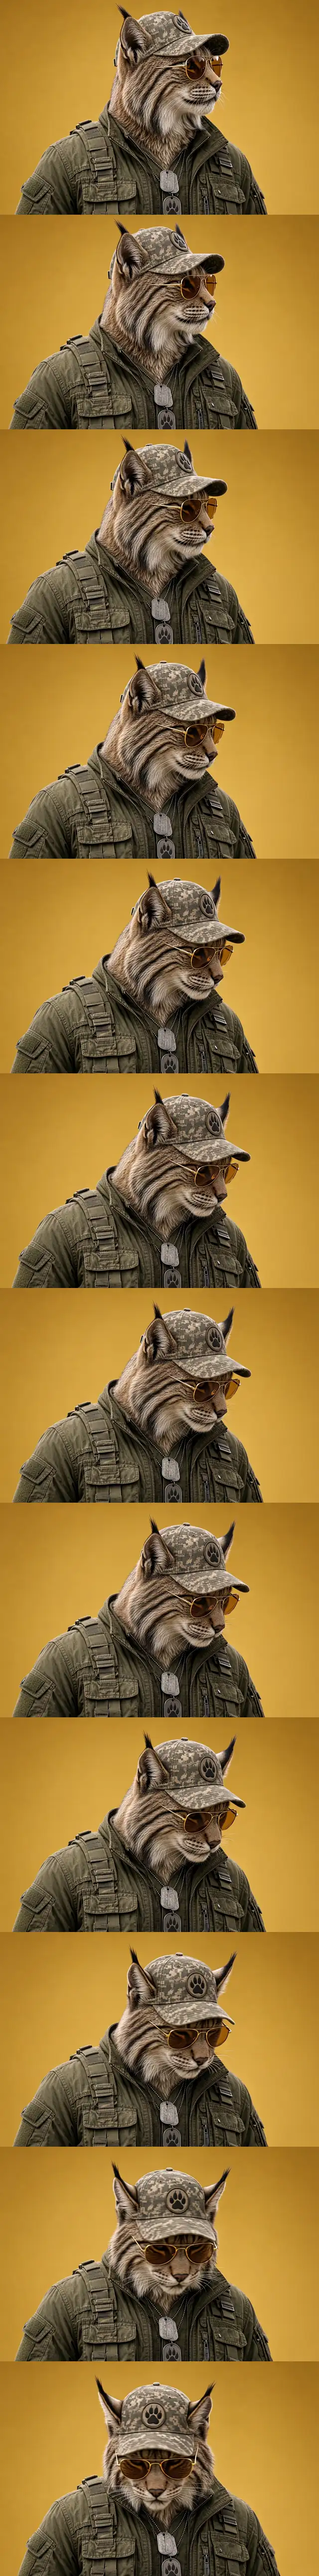
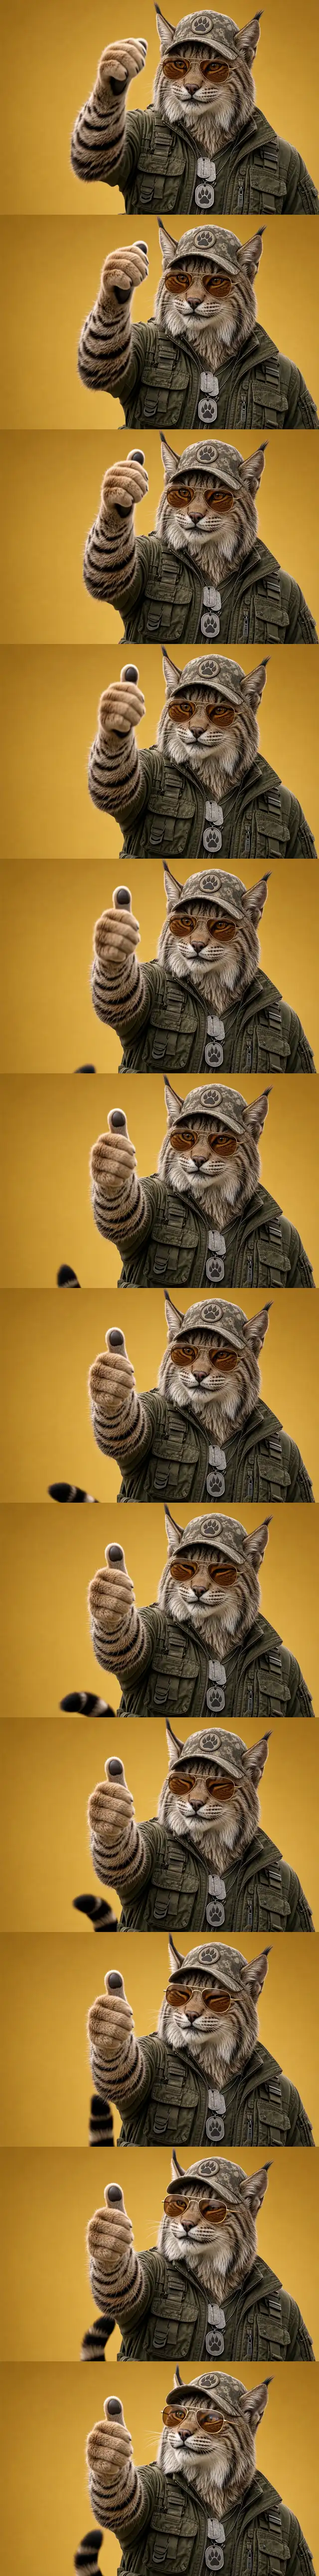
Film: dial card up front, Ray gives a thumbs-up as you scroll
Cut the new clip into 36-frame sprites. The pinned stage now opens with
the headline and the Roof Dial card so guests can price a roof without
scrolling; scrolling plays the thumbs-up while the three promises slide in,
then the page continues. On phones the card sits right under the film,
reached by a 'Price up my roof' button. Film shortened to 260vh.

Claude-Session: https://claude.ai/code/session_01NoynmY9F21yKYSdF1R9y6s

diff --git a/public/css/site.css b/public/css/site.css
@@ -825,12 +825,12 @@ input[type='range']::-moz-range-track { background: var(--line-strong); }
 @media (max-width: 70rem) and (min-width: 56.01rem) { .site-nav a:not(.btn) { padding: 0.5rem 0.55rem; } .site-nav { gap: 0.6rem; } }
 
 /* ---- The film: Ray scrubbed by scroll, scenes over him ---------------------- */
-.film { position: relative; height: 420vh; background: #a56e16; color: #fff; }
+.film { position: relative; height: 260vh; background: #a56e16; color: #fff; }
 .film-stage { position: sticky; top: 0; height: 100vh; height: 100svh; overflow: hidden; background: #a56e16; }
 .film-poster { position: absolute; inset: 0; width: 100%; height: 100%; object-fit: cover; object-position: 60% 40%; }
 .film-canvas { position: absolute; inset: 0; display: block; }
 .film-shade { position: absolute; inset: 0; pointer-events: none; background: linear-gradient(90deg, rgba(40, 24, 0, 0.72) 0%, rgba(40, 24, 0, 0.42) 38%, rgba(40, 24, 0, 0) 68%), linear-gradient(180deg, rgba(0, 0, 0, 0.35) 0%, transparent 22%, transparent 75%, rgba(0, 0, 0, 0.35) 100%); }
-.film-scenes { position: absolute; inset: 0; width: min(100% - 2rem, 76rem); margin-inline: auto; display: grid; padding-top: var(--header-h); }
+.film-scenes { position: absolute; inset: 0; width: min(100% - 2rem, 76rem); margin-inline: auto; display: grid; padding-top: calc(var(--header-h) + 0.5rem); }
 .scene { grid-area: 1 / 1; align-self: center; max-width: 36rem; opacity: 0; will-change: transform, opacity; }
 .film:not(.is-live) { height: auto; }
 .film:not(.is-live) .film-stage { position: relative; height: auto; min-height: 0; }
@@ -838,13 +838,13 @@ input[type='range']::-moz-range-track { background: var(--line-strong); }
 .film:not(.is-live) .scene { opacity: 1 !important; transform: none !important; grid-area: auto; }
 .film:not(.is-live) .scene [data-stagger] > * { opacity: 1 !important; transform: none !important; }
 .eyebrow-dark { margin: 0 0 0.9rem; font: 700 0.78rem var(--font); letter-spacing: 0.16em; text-transform: uppercase; color: var(--sun); }
-.scene h1 { color: #fff; font-size: clamp(2.9rem, 1.6rem + 5vw, 6rem); font-weight: 800; letter-spacing: -0.035em; line-height: 0.98; margin: 0 0 0.35em; }
+.scene h1 { color: #fff; font-size: clamp(2.2rem, 5.2vh, 3.8rem); font-weight: 800; letter-spacing: -0.03em; line-height: 0.98; margin: 0 0 0.3em; }
 .scene h1 .hi { color: var(--sun); }
-.scene .lede { color: rgba(255, 255, 255, 0.86); max-width: 30rem; margin: 0 0 1.5rem; font-weight: 500; }
+.scene .lede { color: rgba(255, 255, 255, 0.86); max-width: 30rem; margin: 0 0 0.9rem; font-size: var(--step--1); font-weight: 500; }
 .scene-actions { display: flex; flex-wrap: wrap; gap: 0.75rem 1rem; align-items: center; }
 .btn-glass { background: rgba(255, 255, 255, 0.1); color: #fff; border: 1px solid rgba(255, 255, 255, 0.35); -webkit-backdrop-filter: blur(10px); backdrop-filter: blur(10px); box-shadow: none; }
 @media (hover: hover) { .btn-glass:hover { background: rgba(255, 255, 255, 0.18); color: #fff; } }
-.scroll-hint { margin: 3rem 0 0; display: inline-flex; align-items: center; gap: 0.8rem; font: 700 0.72rem var(--font); letter-spacing: 0.18em; text-transform: uppercase; color: rgba(255, 255, 255, 0.7); }
+.scroll-hint { margin: 1.4rem 0 0; display: inline-flex; align-items: center; gap: 0.8rem; font: 700 0.72rem var(--font); letter-spacing: 0.18em; text-transform: uppercase; color: rgba(255, 255, 255, 0.7); }
 .scroll-line { width: 3.5rem; height: 2px; background: rgba(255, 255, 255, 0.3); position: relative; overflow: hidden; border-radius: 2px; }
 .scroll-line::after { content: ''; position: absolute; inset: 0; background: var(--sun); transform-origin: left; animation: scroll-line 1.8s var(--ease) infinite; }
 @keyframes scroll-line { 0% { transform: scaleX(0); transform-origin: left; } 55% { transform: scaleX(1); transform-origin: left; } 56% { transform-origin: right; } 100% { transform: scaleX(0); transform-origin: right; } }
@@ -854,15 +854,30 @@ input[type='range']::-moz-range-track { background: var(--line-strong); }
 .promises .n { width: 2.4rem; height: 2.4rem; border-radius: 50%; border: 1.5px solid var(--sun); display: grid; place-items: center; }
 .promises h2 { font-size: var(--step-1); margin: 0.15rem 0 0.25rem; color: #fff; letter-spacing: -0.015em; }
 .promises p { margin: 0; color: rgba(255, 255, 255, 0.72); font-size: var(--step--1); line-height: 1.5; }
-.scene-c { width: min(100%, 29rem); max-width: 29rem; justify-self: start; }
-.scene-c .hero-tool { color: var(--ink); max-height: calc(100svh - var(--header-h) - 2rem); overflow: auto; padding: 1.25rem 1.4rem; box-shadow: 0 40px 80px -30px rgba(0, 0, 0, 0.7); }
-.scene-c .start-title { font-size: var(--step-1); margin-bottom: 0.8rem; }
-.scene-c .dial-host { width: min(100%, 17rem); }
-.scene-c .dial-field .hint { font-size: var(--step--2); }
-.scene-c .field { margin-bottom: 0.8rem; }
-@media (min-width: 62rem) { .scene-c { justify-self: end; margin-right: 4vw; } }
+.scene-a { width: min(100%, 30rem); max-width: 30rem; align-self: start; padding-top: 2vh; }
+@media (max-width: 48rem) { .scene-a { align-self: center; padding-top: 0; } }
+.scene-a .hero-tool { color: var(--ink); max-height: calc(100svh - var(--header-h) - 11rem); overflow: auto; padding: 1rem 1.2rem; box-shadow: 0 40px 80px -30px rgba(0, 0, 0, 0.7); }
+.scene-a .start-title { font-size: var(--step-0); margin-bottom: 0.6rem; }
+.scene-a .dial-host { width: min(100%, 14rem, 26vh); }
+.scene-a .dial-readout { font-size: var(--step--1); margin: 0.3rem 0; }
+.scene-a .btn-block { padding: 0.8rem 1.2rem; font-size: var(--step-0); }
+.scene-a .field label { margin-bottom: 0.25rem; }
+.scene-a .scroll-hint { display: none; }
+.scene-a .dial-field .hint { display: none; }
+.scene-a .dial-field { margin-bottom: 0.8rem; }
+.scene-a .field { margin-bottom: 0.7rem; }
+.scene-a .compass-buttons { margin-top: 0.4rem; }
+.film-cta { display: none; }
+.start-mobile { display: none; }
 @media (max-width: 48rem) {
-  .film { height: 380vh; }
+  .scene-a .hero-tool { display: none; }
+  .film-cta { display: inline-flex; margin-top: 0.4rem; }
+  .start-mobile { display: block; background: var(--bg); padding: 1.5rem 0 0.5rem; }
+  .start-mobile .hero-tool { background: var(--card); border: 1px solid var(--line); border-radius: var(--r-lg); padding: 1.25rem; }
+  .start-mobile .dial-host { width: min(100%, 17rem); }
+}
+@media (max-width: 48rem) {
+  .film { height: 220vh; }
   .film-shade { background: linear-gradient(180deg, rgba(30, 18, 0, 0.78) 0%, rgba(30, 18, 0, 0.45) 45%, rgba(30, 18, 0, 0.75) 100%); }
   .scene h1 { font-size: clamp(2.6rem, 1.4rem + 7vw, 4rem); }
   .scene .lede { font-size: var(--step--1); }

diff --git a/lib/pages-main.js b/lib/pages-main.js
@@ -48,49 +48,37 @@ export function home(ctx) {
   ];
 
   const body = `
-<div class="film" data-film data-desktop='{"src":"${esc(ctx.asset('/img/film/d-%02d.webp'))}","count":5,"per":12,"w":1280,"h":860}' data-mobile='{"src":"${esc(ctx.asset('/img/film/m-%02d.webp'))}","count":4,"per":12,"w":640,"h":430}'>
+<div class="film" data-film data-desktop='{"src":"${esc(ctx.asset('/img/film/d-%02d.webp'))}","count":3,"per":12,"w":1280,"h":860}' data-mobile='{"src":"${esc(ctx.asset('/img/film/m-%02d.webp'))}","count":3,"per":12,"w":640,"h":430}'>
   <div class="film-stage">
     <img class="film-poster" src="${esc(ctx.asset('/img/film/first.jpg'))}" width="1280" height="860" alt="Ray, a lynx in a camo cap and aviators, on a mustard backdrop" fetchpriority="high">
     <canvas class="film-canvas" aria-hidden="true"></canvas>
     <div class="film-shade" aria-hidden="true"></div>
     <div class="film-scenes">
-      <section class="scene scene-a" data-from="0" data-to="0.3" aria-label="Introduction">
+      <section class="scene scene-a" data-from="0" data-to="0.5" id="start" aria-label="Price up your roof">
         <p class="eyebrow-dark">Solar, without the sales call</p>
         <h1>What’s your roof <span class="hi">worth?</span></h1>
-        <p class="lede">Tell us where you live and which way your roof faces. We’ll work out what solar could save you, hour by hour, with every assumption on the table.</p>
-        <div class="scene-actions">
-          <a class="btn btn-lg" href="#start" data-skip-film><span>Start with my roof</span><span class="arrow" aria-hidden="true">→</span></a>
-          <a class="btn btn-lg btn-glass" href="${esc(ctx.href('/get-quotes'))}"><span>Just want quotes?</span></a>
-        </div>
-        <p class="scroll-hint" aria-hidden="true"><span class="scroll-line"></span>Scroll</p>
-      </section>
-      <section class="scene scene-b" data-from="0.28" data-to="0.64" aria-label="How it works">
-        <p class="eyebrow-dark">How it works</p>
-        <ol class="promises" data-stagger>
-          <li><span class="n">01</span><div><h2>Your roof, read properly</h2><p>Direction, pitch, space and shade: the things that actually change the answer.</p></div></li>
-          <li><span class="n">02</span><div><h2>The maths, hour by hour</h2><p>Sun, your usage, an optional battery, and UK prices you can change.</p></div></li>
-          <li><span class="n">03</span><div><h2>Quotes, only if you ask</h2><p>Up to three MCS-certified installers, named before you share anything.</p></div></li>
-        </ol>
-      </section>
-      <section class="scene scene-c" data-from="0.62" data-to="1" data-hold id="start" aria-label="Start the calculator">
+        <p class="lede">Your postcode and which way the roof faces. That’s enough for a first number, no sign-up.</p>
         <div class="hero-tool" data-mount="start">
           <div class="start-fallback">
             <p>Work out what solar could save you.</p>
             <a class="btn btn-lg btn-dark" href="${esc(ctx.href('/solar-calculator'))}"><span>Start the calculator</span><span class="arrow" aria-hidden="true">→</span></a>
           </div>
         </div>
+        <a class="btn btn-lg film-cta" href="#start-mobile" data-to-form><span>Price up my roof</span><span class="arrow" aria-hidden="true">→</span></a>
+        <p class="scroll-hint" aria-hidden="true"><span class="scroll-line"></span>Scroll</p>
+      </section>
+      <section class="scene scene-b" data-from="0.46" data-to="1" data-hold aria-label="How it works">
+        <p class="eyebrow-dark">How it works</p>
+        <ol class="promises" data-stagger>
+          <li><span class="n">01</span><div><h2>Your roof, read properly</h2><p>Direction, pitch, space and shade: the things that actually change the answer.</p></div></li>
+          <li><span class="n">02</span><div><h2>The maths, hour by hour</h2><p>Sun, your usage, an optional battery, and UK prices you can change.</p></div></li>
+          <li><span class="n">03</span><div><h2>Quotes, only if you ask</h2><p>Up to three MCS-certified installers, named before you share anything. Free, and you can say no.</p></div></li>
+        </ol>
       </section>
     </div>
   </div>
 </div>
-
-<section class="dark manifesto">
-  <div class="wrap">
-    <p class="eyebrow-dark" data-rise>Manifesto</p>
-    <p class="manifesto-text" data-reveal-words>Solar sales runs hot. Big numbers, no workings, and a surveyor on the phone before you’ve finished reading. <strong>We run the numbers first.</strong> An hour-by-hour model of your roof and your home, every assumption on the table, and <strong>up to three installers</strong> only when you say so. You see the bill. You decide. <strong>Nobody rings you from here.</strong></p>
-    <ul class="ticker" aria-label="In short" data-rise>${['Workings shown', 'MCS installers', 'No sign-up', 'Free', 'Up to 3 quotes', 'Say no at any stage'].map((t) => `<li>${t}</li>`).join('')}</ul>
-  </div>
-</section>
+<section class="start-mobile" id="start-mobile" aria-label="Price up your roof"><div class="wrap"><div data-start-mobile></div></div></section>
 
 <section class="dark paths">
   <div class="wrap">
@@ -165,7 +153,7 @@ export function home(ctx) {
       <p class="eyebrow-dark">The door is open</p>
       <h2 class="section-title">See what your roof is worth.</h2>
       <p class="dark-sub">About a minute. No email needed to see the answer, and nobody rings you.</p>
-      <div class="scene-actions"><a class="btn btn-lg" href="#start" data-skip-film><span>Start with my roof</span><span class="arrow" aria-hidden="true">→</span></a><a class="link-arrow link-arrow-dark" href="${esc(ctx.href('/for-installers'))}">Run a solar company? Join as an installer</a></div>
+      <div class="scene-actions"><a class="btn btn-lg" href="#start" data-skip-film><span>Price up my roof</span><span class="arrow" aria-hidden="true">→</span></a><a class="link-arrow link-arrow-dark" href="${esc(ctx.href('/for-installers'))}">Run a solar company? Join as an installer</a></div>
     </div>
     <img class="outro-ray" src="${esc(ctx.asset('/img/ray.jpg'))}" width="680" height="644" alt="" loading="lazy">
     <p class="outro-giant" aria-hidden="true">Roofworth</p>

diff --git a/public/js/film.js b/public/js/film.js
@@ -135,7 +135,11 @@ if (film && !reduced) {
 }
 
 // Step 1 of the calculator lives in the last scene (or, without the film, just on the page).
+// On small screens the dial card leaves the film and sits right under it, so the pinned stage
+// only has to hold the headline and the thumbs-up.
 const host = document.querySelector('[data-mount="start"]');
+const mobileSlot = document.querySelector('[data-start-mobile]');
+if (host && mobileSlot && matchMedia('(max-width: 48rem)').matches) { mobileSlot.append(host); document.body.classList.add('start-below-film'); }
 if (host) {
   const state = loadState();
   mountStart(host, {
@@ -148,12 +152,15 @@ if (host) {
   });
 }
 // "Scroll" hint and skip link jump straight to the form.
+for (const a of document.querySelectorAll('[data-to-form]')) {
+  a.addEventListener('click', (e) => { e.preventDefault(); const t = mobileSlot.closest('section'); scrollTo({ top: scrollY + t.getBoundingClientRect().top - 60, behavior: 'smooth' }); host.querySelector('input')?.focus({ preventScroll: true }); });
+}
 for (const a of document.querySelectorAll('[data-skip-film]')) {
   a.addEventListener('click', (e) => {
     if (!film || reduced) return;
     e.preventDefault();
     const r = film.getBoundingClientRect();
-    scrollTo({ top: scrollY + r.top + (r.height - innerHeight) * 0.78, behavior: 'smooth' });
+    scrollTo({ top: scrollY + r.top, behavior: 'smooth' });
   });
 }
 

diff --git a/README.md b/README.md
@@ -51,10 +51,10 @@ This keeps every lead in SQLite, with the `/admin` page (list, status, delete, C
 
 ## The home page film
 
-The home page is a scroll-driven film (`public/js/film.js`). Ray's head-turn video is cut into frame sprites (`public/img/film/d-*.webp`, 72 frames at 1040px for desktop; `m-*.webp`, 48 frames at 640px for phones) and scrubbed by scroll on a pinned canvas while three scenes play over him: the headline, the three promises, then step 1 of the calculator. The sprites load progressively (first ones first), and `first.jpg` is the poster until they arrive. Below the film: a manifesto that brightens word by word, four "paths" cards, and a pinned "watch the bill drop" counter with three step cards. No JavaScript or reduced motion shows the poster with the scenes stacked and everything visible.
+The home page opens on a pinned stage (`public/js/film.js`): the headline and the Roof Dial card on the left, Ray on the right. As you scroll, a short clip of Ray giving a thumbs-up is scrubbed frame by frame from a sprite (`public/img/film/d-*.webp`, 36 frames at 1280px for desktop; `m-*.webp` at 640px for phones) while the three promises slide in; then the page continues. On phones the dial card sits directly under the film instead, reached by the "Price up my roof" button. Sprites load progressively and `first.jpg` is the poster until they arrive. No JavaScript or reduced motion shows the poster with everything stacked. Below the film: four path cards, the pinned "watch the bill drop" counter, the Planet pledge, three installers and four FAQs.
 
-To re-cut the frames from a new video (same mustard backdrop, Ray on the right):
-`ffmpeg -i ray.mp4 -vf "fps=7.2,scale=1040:-2,tile=1x12" -f image2 -c:v libwebp -quality 58 public/img/film/d-%02d.webp` and the same with `fps=4.8,scale=640:-2` for `m-%02d.webp`, then update the counts and frame sizes in the `data-desktop` / `data-mobile` JSON in `lib/pages-main.js`. The quote flow keeps a face crop, `public/img/ray-face.jpg`, as Ray's avatar.
+To re-cut the frames from a new clip (same mustard backdrop, Ray on the right, the action between 2.4 s and 6.9 s):
+`ffmpeg -ss 2.4 -t 4.5 -i ray.mp4 -vf "fps=8,scale=1280:-2:flags=lanczos,unsharp=5:5:0.45:5:5:0.0,tile=1x12" -f image2 -c:v libwebp -quality 60 public/img/film/d-%02d.webp`, the same with `scale=640:-2` for `m-%02d.webp`, and `first.jpg` from the first frame of the range. Then update `count`, `w` and `h` in the `data-desktop` / `data-mobile` JSON in `lib/pages-main.js`. A 1080p or 4K source clip would make the hero properly sharp; the current one is 1168×784. The quote flow keeps a face crop, `public/img/ray-face.jpg`, as Ray's avatar.
 
 ## Deploy to Netlify
 
